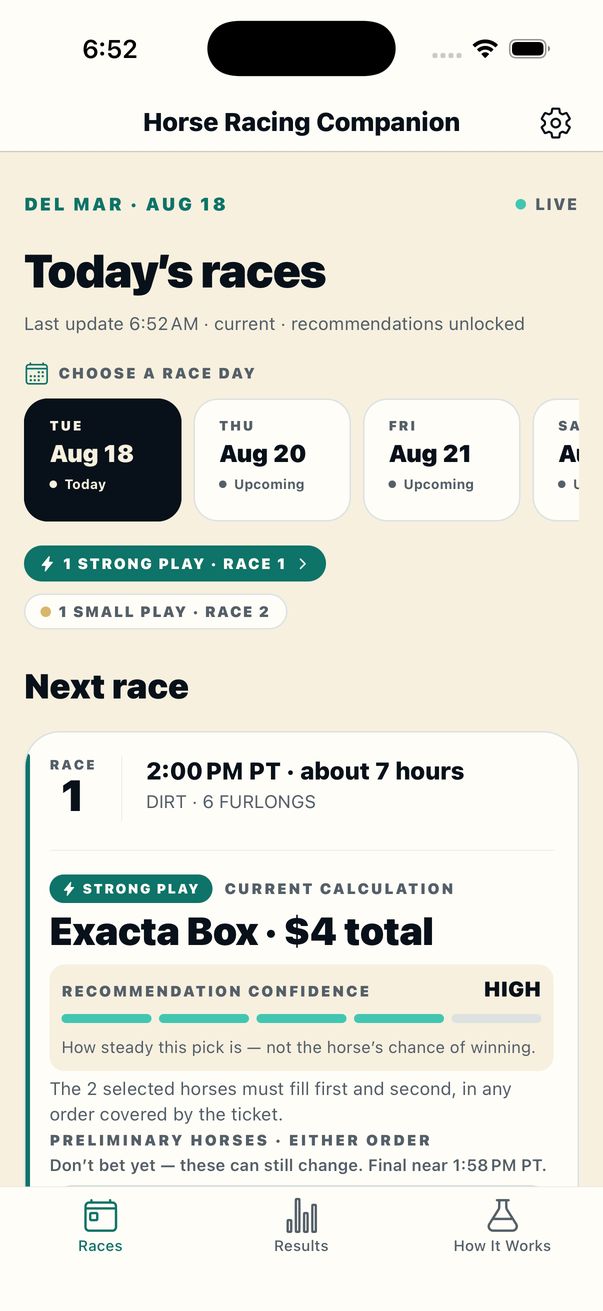
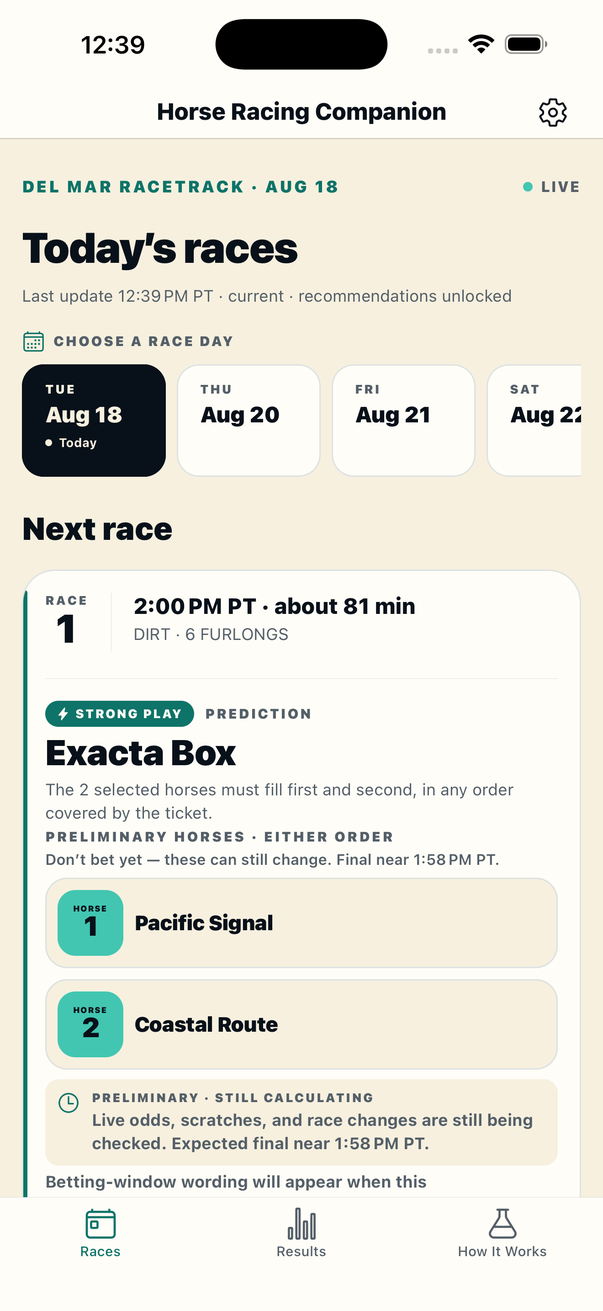
Final v1 site: screenshots from the shipped UI; strong-play and confidence-meter copy

diff --git a/index.html b/index.html
@@ -44,7 +44,7 @@
         "@type": "FAQPage",
         "mainEntity": [
           { "@type": "Question", "name": "Does the app place bets?", "acceptedAnswer": { "@type": "Answer", "text": "No. Horse Racing Companion does not accept deposits, create a wagering account, transmit wagers, or connect to a betting operator. You decide whether to place a wager yourself." } },
-          { "@type": "Question", "name": "Is recommendation confidence my chance of winning?", "acceptedAnswer": { "@type": "Answer", "text": "No. Low, Medium, or High describes how clearly the available information supports the recommendation. It is not a predicted win percentage and does not guarantee an outcome." } },
+          { "@type": "Question", "name": "Is recommendation confidence my chance of winning?", "acceptedAnswer": { "@type": "Answer", "text": "No. The confidence meter shows how clearly the available information supports the prediction — steadier evidence fills more of the meter. It is not a predicted win percentage and does not guarantee an outcome." } },
           { "@type": "Question", "name": "What information does the analysis use?", "acceptedAnswer": { "@type": "Answer", "text": "The current model uses public morning-line odds and past Del Mar results — each horse's local record, its trainer and jockey, their pairing, and post-position performance by surface and distance — to rank the active horses. Closer to the race, current odds for the leading selection are checked and can affect the final ticket." } },
           { "@type": "Question", "name": "Why is my recommendation preliminary?", "acceptedAnswer": { "@type": "Answer", "text": "Live odds, scratches, and race changes can alter the calculation. The status tells you what is still updating and when the recommendation is expected to be final." } },
           { "@type": "Question", "name": "Is this an official Del Mar app?", "acceptedAnswer": { "@type": "Answer", "text": "No. Horse Racing Companion is independent and is not affiliated with, endorsed by, or sponsored by Del Mar Thoroughbred Club." } }
@@ -87,7 +87,7 @@
         </div>
         <div class="hero-visual" role="img" aria-label="Preview of the Horse Racing Companion Today screen">
           <div class="phone-shell">
-            <img src="assets/today-preview.png" alt="Horse Racing Companion Today screen showing a strong play in Race 1 with a preliminary four-dollar Exacta Box and a small play in Race 2" width="603" height="1311">
+            <img src="assets/today-preview.png" alt="Horse Racing Companion Today screen showing a strong-play prediction for Race 1 with the horses to bet" width="603" height="1311">
           </div>
         </div>
       </section>
@@ -156,7 +156,7 @@
           <article class="step-card accent-card">
             <span class="step-number">02</span>
             <h3>Review the pick</h3>
-            <p>Preliminary means live information can still change the ticket. Final means the race-day calculation is complete. When one horse or group clearly stands out, the ticket is a recommended bet; in closer races it is marked as a small play. A genuinely unclear race may show no bet.</p>
+            <p>Preliminary means live information can still change the ticket. Final means the race-day calculation is complete. When one horse or group clearly stands out, the pick is marked as a strong play. A genuinely unclear race may show no bet.</p>
           </article>
           <article class="step-card">
             <span class="step-number">03</span>
@@ -256,7 +256,7 @@
           </details>
           <details>
             <summary>Is recommendation confidence my chance of winning?</summary>
-            <p>No. Low, Medium, or High describes how clearly the available information supports the recommendation. It is not a predicted win percentage and does not guarantee an outcome.</p>
+            <p>No. The confidence meter shows how clearly the available information supports the prediction — steadier evidence fills more of the meter. It is not a predicted win percentage and does not guarantee an outcome.</p>
           </details>
           <details>
             <summary>What information does the analysis use?</summary>

diff --git a/terms/index.html b/terms/index.html
@@ -42,7 +42,7 @@
           <div class="legal-callout"><p><strong>Horse Racing Companion is not a wagering operator.</strong></p><p>It does not accept deposits, hold funds, create betting accounts, sell wagering credits, place or transmit bets, or receive a share of a wager. It is not affiliated with, endorsed by, or sponsored by Del Mar Thoroughbred Club.</p></div>
 
           <h2 id="decisions">Recommendations and your decisions</h2>
-          <p>Recommendations are estimates based on available information and model assumptions. Racing is uncertain. Data can be delayed, incomplete, incorrect, or change after a recommendation. A Low, Medium, or High confidence label describes the clarity of the available information; it is not a probability of winning. No recommendation guarantees a result or profit.</p>
+          <p>Recommendations are estimates based on available information and model assumptions. Racing is uncertain. Data can be delayed, incomplete, incorrect, or change after a recommendation. The confidence meter describes the clarity of the available information; it is not a probability of winning. No recommendation guarantees a result or profit.</p>
           <p>A preliminary recommendation can change as current odds, scratches, or other race information changes. A final recommendation may still lose. The app may show no bet when a field is unusually unclear or when missing, delayed, or changed data prevents a safe ticket.</p>
           <p>You alone decide whether to wager, what to say to a teller, whether a ticket is correct before accepting it, and how much you can afford to lose. Always confirm the track, race, bet type, horse program numbers, base amount, combinations, and total on the issued ticket before leaving the window.</p>
 

diff --git a/support/index.html b/support/index.html
@@ -43,7 +43,7 @@
           <h3>Why does the app say Preliminary?</h3>
           <p>The recommendation is still being recalculated with odds, scratches, or other race changes. The status area tells you what remains and when the race calculation is expected to finish.</p>
           <h3>What does recommendation confidence mean?</h3>
-          <p>Low, Medium, or High describes how clearly the available information supports the recommendation. It is not the chance of winning, and a High recommendation can still lose.</p>
+          <p>The confidence meter shows how clearly the available information supports the prediction — steadier evidence fills more of the meter. It is not the chance of winning, and a confident prediction can still lose.</p>
 
           <h2>Reading a ticket</h2>
           <h3>Is the program number the horse number?</h3>
